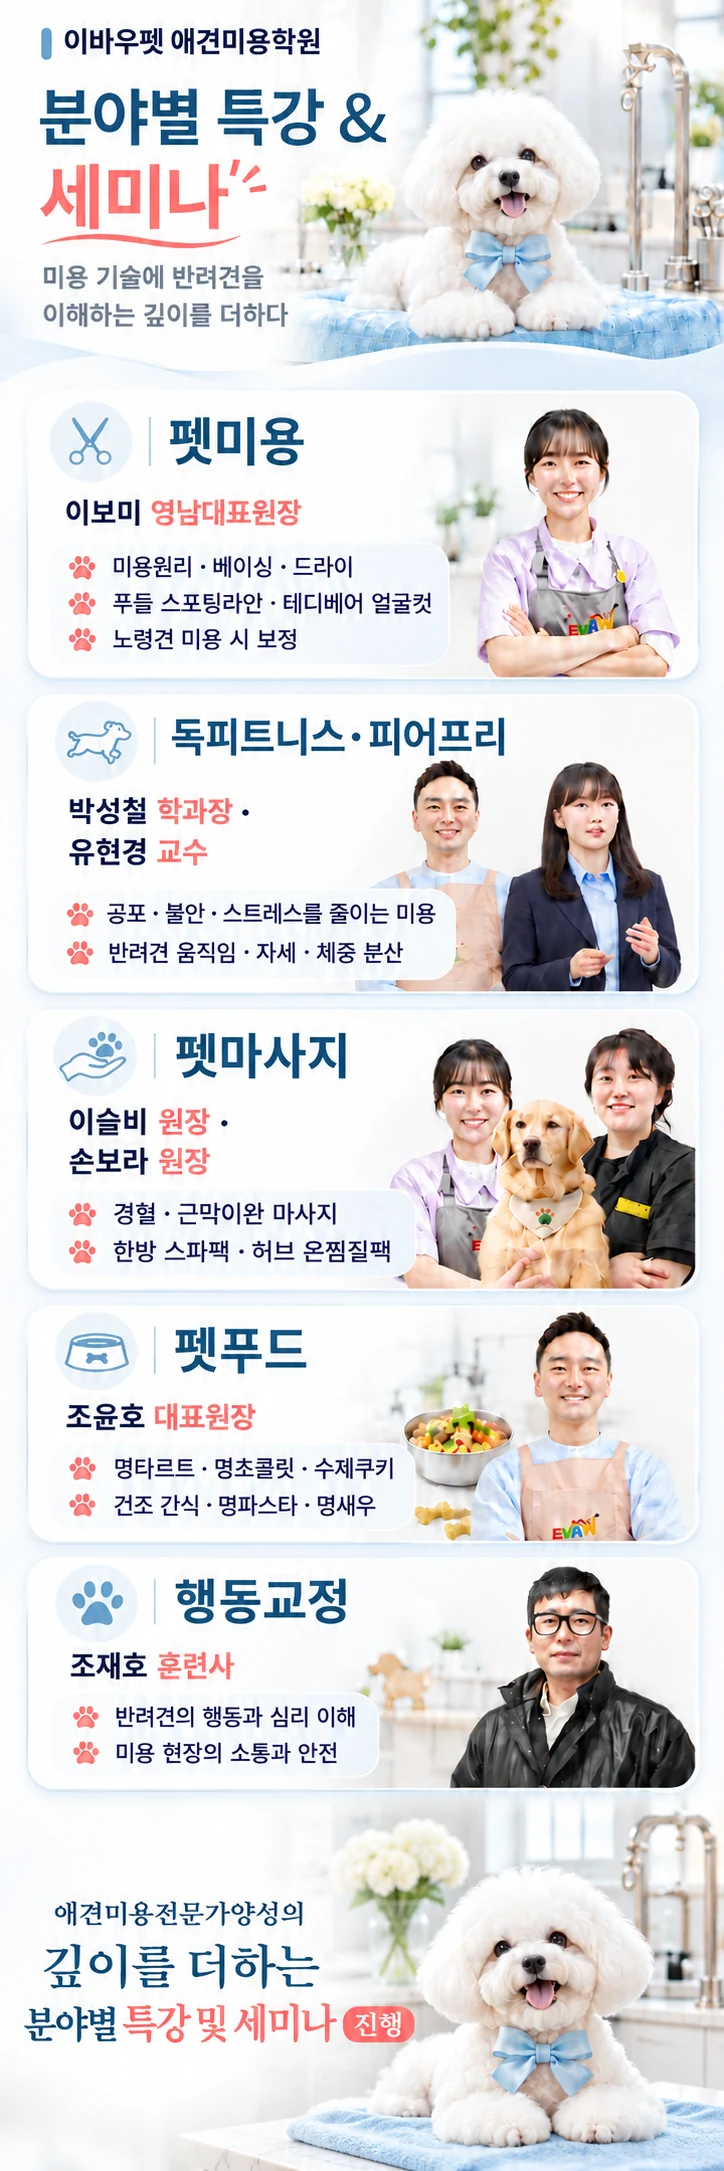
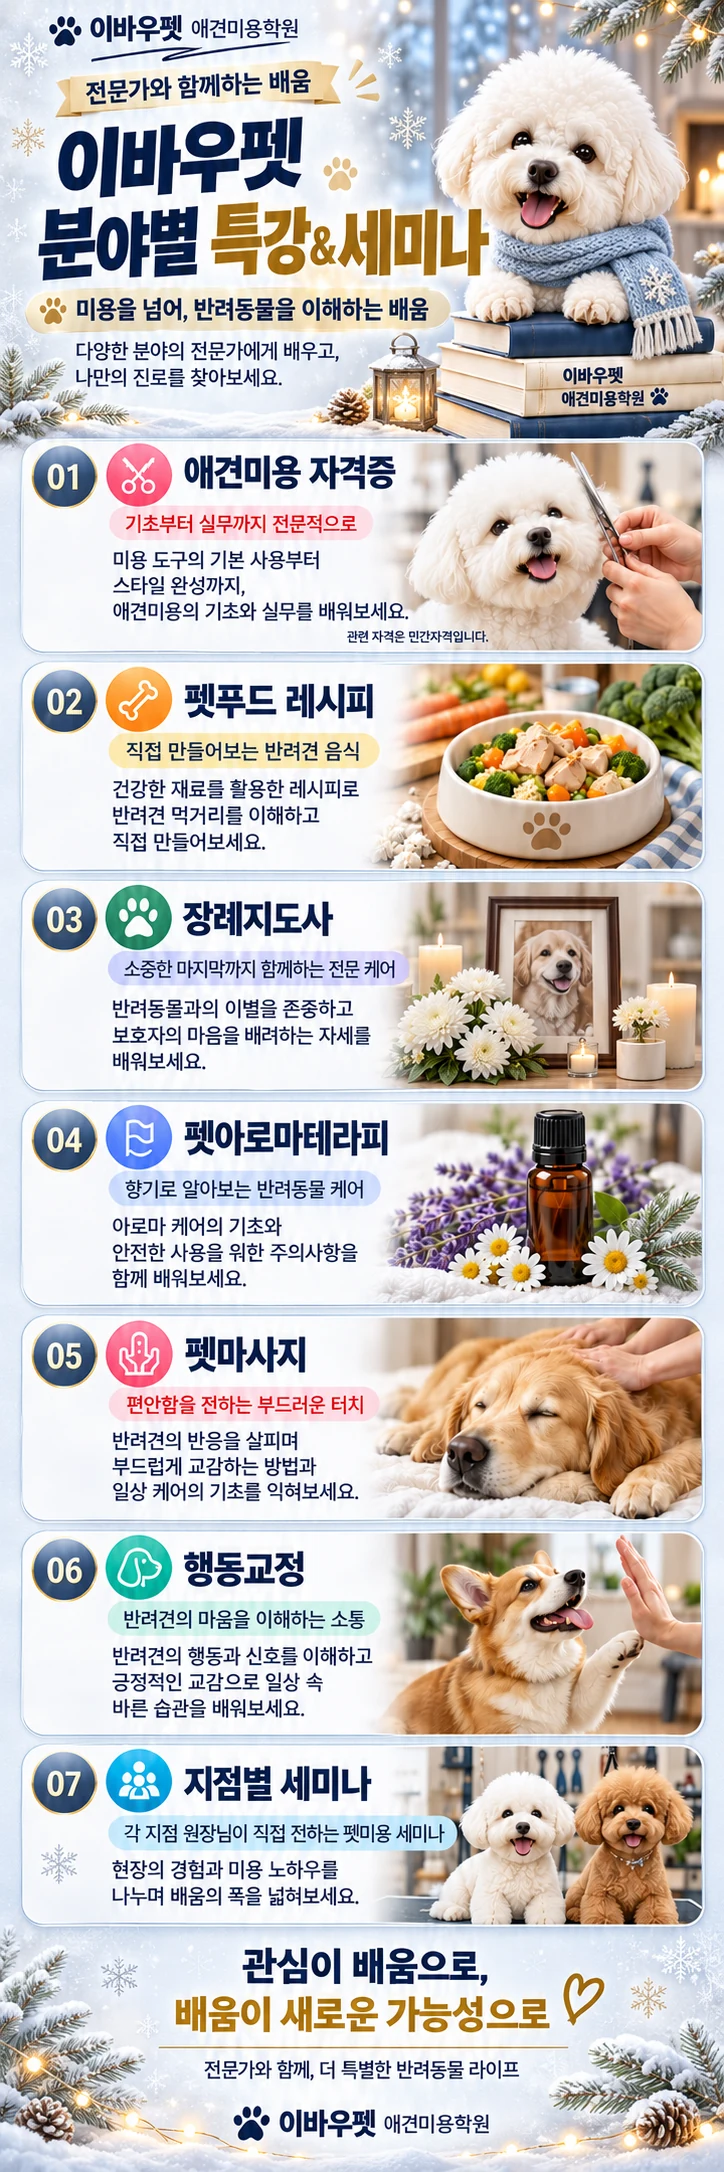
feat: 브랜드명을 "애견미용학원"으로 통일 + 무료특강 상세 이미지 교체
브랜드명(사용자 지시):
- 메인 title/H1, 전 페이지 title 8종, og:title·og:siteName
- 헤더 로고에서 <em>대전점</em> 제거
- 본문 문구, 시설투어·갤러리 alt 등 총 30곳
- 되돌릴 수 있도록 기존 값을 layout.tsx 주석에 남김

유지(사용자 확인):
- Footer 고시정보 "학원명 : 애견미용학원대전점"과 저작권 표기 —
  사업자등록번호 211-87-42130과 함께 고시되는 실제 등록명
- 개인정보처리방침 상호
- 지점 목록의 "대전점" 항목(인천점·부산점과 같은 지점 이름)

무료특강 상세 이미지:
- 7주제 버전(애견미용 자격증~지점별 세미나)으로 교체. 강사 실명·얼굴 없음.
- alt·description을 실제 사진 내용으로 되돌림.

diff --git a/app/free-lecture/page.tsx b/app/free-lecture/page.tsx
@@ -2,8 +2,8 @@ import type { Metadata } from "next";
 import PromoLanding from "@/components/PromoLanding";
 
 export const metadata: Metadata = {
-  title: "무료특강 · 분야별 세미나 | 애견미용학원 대전점",
-  description: "펫미용, 독피트니스·피어프리, 펫마사지, 펫푸드, 행동교정 — 이바우펫 분야별 특강&세미나. 미용 기술에 반려견을 이해하는 깊이를 더합니다.",
+  title: "무료특강 · 분야별 세미나 | 애견미용학원",
+  description: "애견미용 자격증(민간자격), 펫푸드 레시피, 장례지도사, 펫아로마테라피, 펫마사지, 행동교정, 지점별 세미나 — 이바우펫 분야별 특강&세미나. 미용을 넘어, 반려동물을 이해하는 배움.",
 };
 
 export default function FreeLecturePage() {
@@ -11,7 +11,7 @@ export default function FreeLecturePage() {
     <PromoLanding
       name="무료특강 · 분야별 특강"
       detailSrc="/images/promo/free-lecture-detail.webp"
-      detailAlt="이바우펫 분야별 특강&세미나 — 미용 기술에 반려견을 이해하는 깊이를 더하다. 펫미용(미용원리·베이싱·드라이, 푸들 스포팅라인·테디베어 얼굴컷, 노령견 미용 시 보정), 독피트니스·피어프리(공포·불안·스트레스를 줄이는 미용, 반려견 움직임·자세·체중 분산), 펫마사지(경혈·근막이완 마사지, 한방 스파팩·허브 온찜질팩), 펫푸드(명타르트·명초콜릿·수제쿠키, 건조 간식·명파스타·명새우), 행동교정(반려견의 행동과 심리 이해, 미용 현장의 소통과 안전)"
+      detailAlt="이바우펫 분야별 특강&세미나 — 전문가와 함께하는 배움. 미용을 넘어, 반려동물을 이해하는 배움. 01 애견미용 자격증(기초부터 실무까지, 관련 자격은 민간자격), 02 펫푸드 레시피(직접 만들어보는 반려견 음식), 03 장례지도사(소중한 마지막까지 함께하는 전문 케어), 04 펫아로마테라피(향기로 알아보는 반려동물 케어), 05 펫마사지(편안함을 전하는 부드러운 터치), 06 행동교정(반려견의 마음을 이해하는 소통), 07 지점별 세미나(각 지점 원장님이 직접 전하는 펫미용 세미나)"
       consultLabel="📚 무료특강 신청 상담하기"
     />
   );

diff --git a/components/FacilityTour.tsx b/components/FacilityTour.tsx
@@ -21,25 +21,25 @@ const SPACES = [
     photo: "/images/gallery/facility-6.jpg",
     title: "미용 실습 강의장",
     desc: "미용 테이블이 줄지어 놓인 실습 강의장입니다. 자리마다 따로 작업하며 수업이 진행됩니다.",
-    alt: "애견미용학원 대전점 미용 실습 강의장 — 미용 테이블이 줄지어 놓이고 선반에 위그가 비치된 넓은 실습 공간",
+    alt: "애견미용학원 미용 실습 강의장 — 미용 테이블이 줄지어 놓이고 선반에 위그가 비치된 넓은 실습 공간",
   },
   {
     photo: "/images/gallery/facility-2.jpg",
     title: "위그 연습 공간",
     desc: "실견에 들어가기 전, 위그(연습용 모형)로 가위 컷을 반복해서 연습합니다.",
-    alt: "애견미용학원 대전점 위그 연습 — 미용 테이블 위 흰 위그를 가위로 커트하는 모습",
+    alt: "애견미용학원 위그 연습 — 미용 테이블 위 흰 위그를 가위로 커트하는 모습",
   },
   {
     photo: "/images/gallery/facility-1.jpg",
     title: "실견 미용 실습",
     desc: "실제 가정견을 미용 테이블에 올려 상담부터 인계까지 현장 그대로 실습합니다.",
-    alt: "애견미용학원 대전점 실견 실습 — 미용 테이블 위 가정견과 가위·빗 등 미용 도구",
+    alt: "애견미용학원 실견 실습 — 미용 테이블 위 가정견과 가위·빗 등 미용 도구",
   },
   {
     photo: "/images/gallery/facility-10.jpg",
     title: "완성컷 촬영 공간",
     desc: "미용을 마친 강아지의 완성컷을 배경천과 소품을 두고 촬영합니다.",
-    alt: "애견미용학원 대전점 완성컷 촬영 공간 — 숲 배경천과 꽃·과일 소품 앞에 앉은 미용 완료된 비숑",
+    alt: "애견미용학원 완성컷 촬영 공간 — 숲 배경천과 꽃·과일 소품 앞에 앉은 미용 완료된 비숑",
   },
 ];
 

diff --git a/app/about/page.tsx b/app/about/page.tsx
@@ -5,8 +5,8 @@ import GallerySection from "@/components/GallerySection";
 import DifferentiatorGrid from "@/components/DifferentiatorGrid";
 
 export const metadata: Metadata = {
-  title: "학원소개 | 애견미용학원 대전점",
-  description: "애견미용학원 대전점 소개 — 자격증 취득과 실무 역량을 함께 준비하는 애견미용 전문 교육 공간입니다.",
+  title: "학원소개 | 애견미용학원",
+  description: "애견미용학원 소개 — 자격증 취득과 실무 역량을 함께 준비하는 애견미용 전문 교육 공간입니다.",
 };
 
 export default function AboutPage() {
@@ -19,7 +19,7 @@ export default function AboutPage() {
           </p>
           <span className="eyebrow">ABOUT</span>
           <h1>학원소개</h1>
-          <p>애견미용학원 대전점을 소개합니다.</p>
+          <p>애견미용학원을 소개합니다.</p>
         </div>
       </section>
 
@@ -30,7 +30,7 @@ export default function AboutPage() {
           <span className="sec-tag">🏫 학원소개</span>
           <h2 className="sec-title">손으로 익히는 일이라, 손을 직접 잡아드립니다</h2>
           <p>
-            애견미용학원 대전점은 자격증 한 장을 내드리는 곳이 아니라, 실제로 손을 움직여 미용사가 될 수 있게
+            애견미용학원은 자격증 한 장을 내드리는 곳이 아니라, 실제로 손을 움직여 미용사가 될 수 있게
             돕는 곳입니다.
           </p>
           <p>
@@ -51,7 +51,7 @@ export default function AboutPage() {
 
       <section>
         <div className="wrap">
-          <span className="sec-tag">✨ 애견미용학원 대전점만의 차이</span>
+          <span className="sec-tag">✨ 애견미용학원만의 차이</span>
           <h2 className="sec-title">이런 점이 다릅니다</h2>
           <DifferentiatorGrid />
         </div>

diff --git a/app/page.tsx b/app/page.tsx
@@ -41,7 +41,7 @@ export default function HomePage() {
           </svg>
         </div>
         {/* 2026-10-15: 모바일 배너 아래 문구 블록(HeroCopy) 삭제 요청 — 검색엔진용 h1만 화면에 안 보이게 유지 */}
-        <h1 className="sr-only">애견미용학원 자격증 가정견실습 과정 장학지원신청</h1>
+        <h1 className="sr-only">애견미용학원</h1>
       </section>
 
       {/* 히어로 보조 CTA·신뢰지표·빠른 과정 탐색 — evaw-pet-grooming.co.kr 홈 히어로 구조(큰 CTA버튼·채널행·신뢰바·
@@ -183,7 +183,7 @@ export default function HomePage() {
       {/* 강점 섹션 — STEP3: 4카드 정적 목록 → 6카드 인터랙티브 그리드(클릭 시 상세 모달)로 확장 */}
       <section className="benefits">
         <div className="wrap">
-          <span className="sec-tag">✨ 애견미용학원 대전점만의 차이</span>
+          <span className="sec-tag">✨ 애견미용학원만의 차이</span>
           <h2 className="sec-title">왜 이바우펫에서 해야 할까요?</h2>
           <DifferentiatorGrid />
           {/* 2026-11-04 신설: 지원 제도 바로가기 — 켈리스 `main-benefit`의 지원제도 카드 대응.
@@ -322,7 +322,7 @@ export default function HomePage() {
         <div className="wrap" style={{ textAlign: "center" }}>
           <span className="sec-tag">🗺 지점 안내</span>
           <h2 className="sec-title">전국 지점</h2>
-          <p className="sec-sub">애견미용학원 대전점은 전국 21개 지점 네트워크 중 하나입니다.</p>
+          <p className="sec-sub">애견미용학원은 전국 21개 지점 네트워크 중 하나입니다.</p>
           <div className="branch-grid">
             {branches.map((b) => (
               <BranchCard key={b.region + b.name} branch={b} />

diff --git a/app/layout.tsx b/app/layout.tsx
@@ -31,9 +31,11 @@ const inter = Inter({
   variable: "--font-inter",
 });
 
-const siteTitle = "애견미용학원 자격증 가정견실습 과정 장학지원신청";
+// 2026-11-05 사용자 지시: 메인 타이틀을 키워드 나열에서 "애견미용학원" 한 단어로 축약.
+// ⚠ 기존 값 "애견미용학원 자격증 가정견실습 과정 장학지원신청" — 되돌릴 일 있으면 이 줄 참고.
+const siteTitle = "애견미용학원";
 const siteDescription =
-  "애견미용학원 대전점 — 자격증 3급·2급, 실견 실습 중심 애견미용 과정 안내. 상담 신청은 지금 바로 문의해 주세요.";
+  "애견미용학원 — 자격증 3급·2급, 실견 실습 중심 애견미용 과정 안내. 상담 신청은 지금 바로 문의해 주세요.";
 
 export const metadata: Metadata = {
   metadataBase: new URL("https://evawacademy.com"),
@@ -48,7 +50,7 @@ export const metadata: Metadata = {
   // 옛 og-image.jpg 는 외부 캐시가 다시 받아갈 때를 대비해 같은 내용으로 남겨 둠(404 방지).
   openGraph: {
     type: "website",
-    siteName: "애견미용학원 대전점",
+    siteName: "애견미용학원",
     title: siteTitle,
     description: siteDescription,
     images: [

diff --git a/components/GallerySection.tsx b/components/GallerySection.tsx
@@ -52,11 +52,11 @@ export default function GallerySection() {
               type="button"
               className="gallery-thumb"
               onClick={() => setOpenIndex(i)}
-              aria-label={`애견미용학원 대전점 실습 현장 사진 ${i + 1}번 크게 보기`}
+              aria-label={`애견미용학원 실습 현장 사진 ${i + 1}번 크게 보기`}
             >
               <Image
                 src={src}
-                alt={`애견미용학원 대전점 실습 현장 사진 ${i + 1}`}
+                alt={`애견미용학원 실습 현장 사진 ${i + 1}`}
                 fill
                 sizes="(max-width:640px) 50vw, (max-width:1024px) 33vw, 25vw"
                 style={{ objectFit: "cover" }}
@@ -85,7 +85,7 @@ export default function GallerySection() {
           <div className="lightbox-image-wrap" onClick={(e) => e.stopPropagation()}>
             <Image
               src={PHOTOS[openIndex]}
-              alt={`애견미용학원 대전점 실습 현장 사진 ${openIndex + 1}`}
+              alt={`애견미용학원 실습 현장 사진 ${openIndex + 1}`}
               fill
               sizes="90vw"
               style={{ objectFit: "contain" }}

diff --git a/components/Footer.tsx b/components/Footer.tsx
@@ -3,6 +3,8 @@
 import Link from "next/link";
 
 // 사업자정보 고시 — 사용자 제공 실제 등록정보(2026-09-13) 기준, 주소만 대전점으로 교체.
+// 2026-11-05: 사이트 전반 브랜드명을 "애견미용학원"으로 축약했으나, 아래 "학원명 : 애견미용학원대전점"과
+// 저작권 표기는 사업자등록번호 211-87-42130과 함께 고시되는 실제 등록명이라 사용자 확인 후 그대로 둠.
 // 운영등록증·배상책임보험약관은 같은 사업자(이바우펫) 홈페이지의 실제 게시 문서로 연결(2026-09-20, 사용자 제공 링크).
 // 시간표·인스타그램은 아직 실제 페이지/링크가 없어 tbd로 표시.
 export default function Footer() {
@@ -11,7 +13,7 @@ export default function Footer() {
     <footer className="site-footer">
       <div className="wrap">
         <p>
-          <b>애견미용학원 대전점</b>
+          <b>애견미용학원</b>
         </p>
         <p className="footer-biz-info">
           학원명 : 애견미용학원대전점 · 대표 : 김명자 · 사이트 소유자 : 김현주

diff --git a/app/branches/page.tsx b/app/branches/page.tsx
@@ -4,8 +4,8 @@ import ConsultCtaButton from "@/components/ConsultCtaButton";
 import BranchMapSection from "@/components/BranchMapSection";
 
 export const metadata: Metadata = {
-  title: "전국 지점 | 애견미용학원 대전점",
-  description: "전국 21개 지점 네트워크 안내 — 애견미용학원 대전점을 포함한 전국 지점 위치를 확인하세요.",
+  title: "전국 지점 | 애견미용학원",
+  description: "전국 21개 지점 네트워크 안내 — 애견미용학원 전국 지점 위치를 확인하세요.",
 };
 
 export default function BranchesPage() {
@@ -18,7 +18,7 @@ export default function BranchesPage() {
           </p>
           <span className="eyebrow">BRANCHES</span>
           <h1>전국 지점</h1>
-          <p>전국 21개 지점 네트워크 — 대전점을 포함한 전국 지점 위치를 확인하실 수 있습니다.</p>
+          <p>전국 21개 지점 네트워크 — 전국 지점 위치를 확인하실 수 있습니다.</p>
         </div>
       </section>
 

diff --git a/components/Header.tsx b/components/Header.tsx
@@ -88,11 +88,9 @@ export default function Header() {
   return (
     <header className={`site-header${scrolled ? " scrolled" : ""}`}>
       <div className="wrap header-inner">
-        <Link href="/" className="logo-slot" aria-label="애견미용학원 대전점 홈">
+        <Link href="/" className="logo-slot" aria-label="애견미용학원 홈">
           {/* 로고 준비되면 이 자리를 <Image src="/images/logo.png" .../> 로 교체 */}
-          <span className="logo-text">
-            애견미용학원<em>대전점</em>
-          </span>
+          <span className="logo-text">애견미용학원</span>
         </Link>
 
         <nav className={`nav-links${open ? " open" : ""}`} aria-label="주요 메뉴">

diff --git a/app/curriculum/page.tsx b/app/curriculum/page.tsx
@@ -12,8 +12,8 @@ import { courses } from "@/lib/courses";
 // 분석 근거: ai-website-cloner/docs/research/kelispetacademy/page-brief.md
 
 export const metadata: Metadata = {
-  title: "커리큘럼 | 애견미용학원 대전점",
-  description: "애견미용학원 대전점 수강 과정 안내 — 3급·2급 자격증 과정부터 취업·창업 준비 과정까지.",
+  title: "커리큘럼 | 애견미용학원",
+  description: "애견미용학원 수강 과정 안내 — 3급·2급 자격증 과정부터 취업·창업 준비 과정까지.",
 };
 
 export default function CurriculumPage() {

diff --git a/app/privacy/page.tsx b/app/privacy/page.tsx
@@ -3,8 +3,8 @@ import Link from "next/link";
 import PrivacyPolicyText from "@/components/PrivacyPolicyText";
 
 export const metadata: Metadata = {
-  title: "개인정보처리방침 | 애견미용학원 대전점",
-  description: "애견미용학원 대전점 홈페이지 개인정보처리방침.",
+  title: "개인정보처리방침 | 애견미용학원",
+  description: "애견미용학원 홈페이지 개인정보처리방침.",
 };
 
 // 2026-09-20: 상담 신청 폼(ConsultModal)이 실제로 수집하는 항목(이름·연락처·수강목적·희망지점·문의사항)과

diff --git a/app/globals.css b/app/globals.css
@@ -1,4 +1,4 @@
-/* 애견미용학원 대전점 — 디자인 시스템: 사용자가 전달한 Airbnb 스타일 가이드 기반.
+/* 애견미용학원 — 디자인 시스템: 사용자가 전달한 Airbnb 스타일 가이드 기반.
    단일 액센트(2026-11-04 겨울: 버건디 #9b1b30, 원래 Rausch #ff385c) + 흰 캔버스 + 잉크 텍스트, 얇은 헤어라인, 완만한 라운드, 단일 섀도우 계층.
    로고 확정 전 임시 값 — 로고 오면 --primary 등만 바꾸면 전체 반영됩니다. */
 
